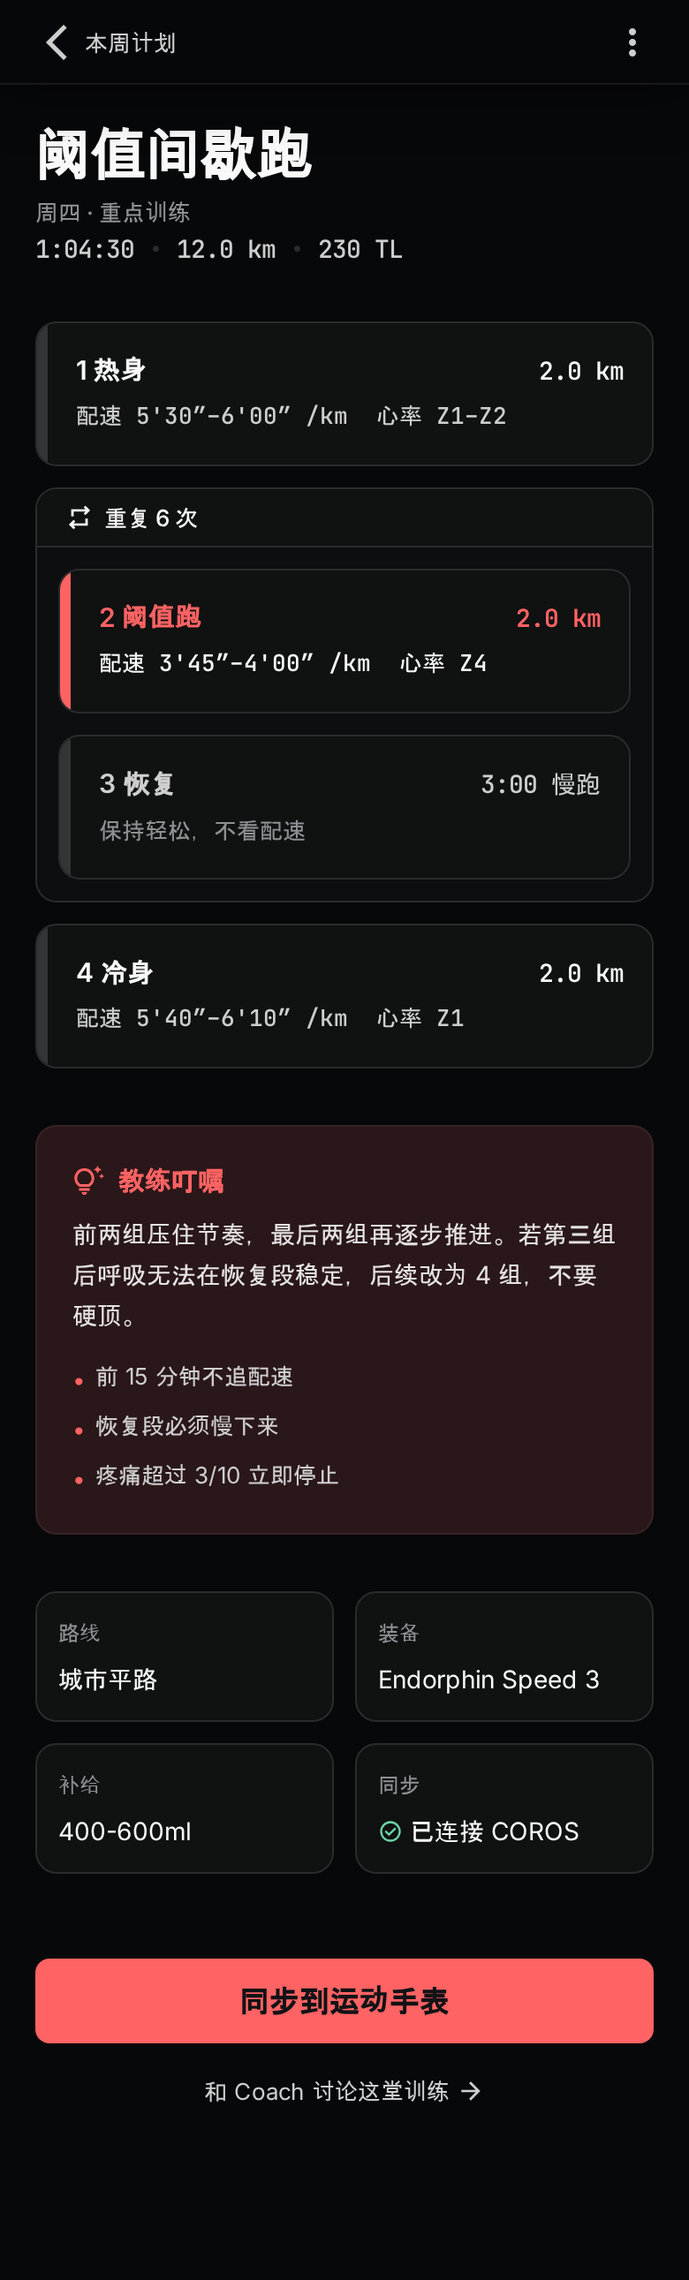
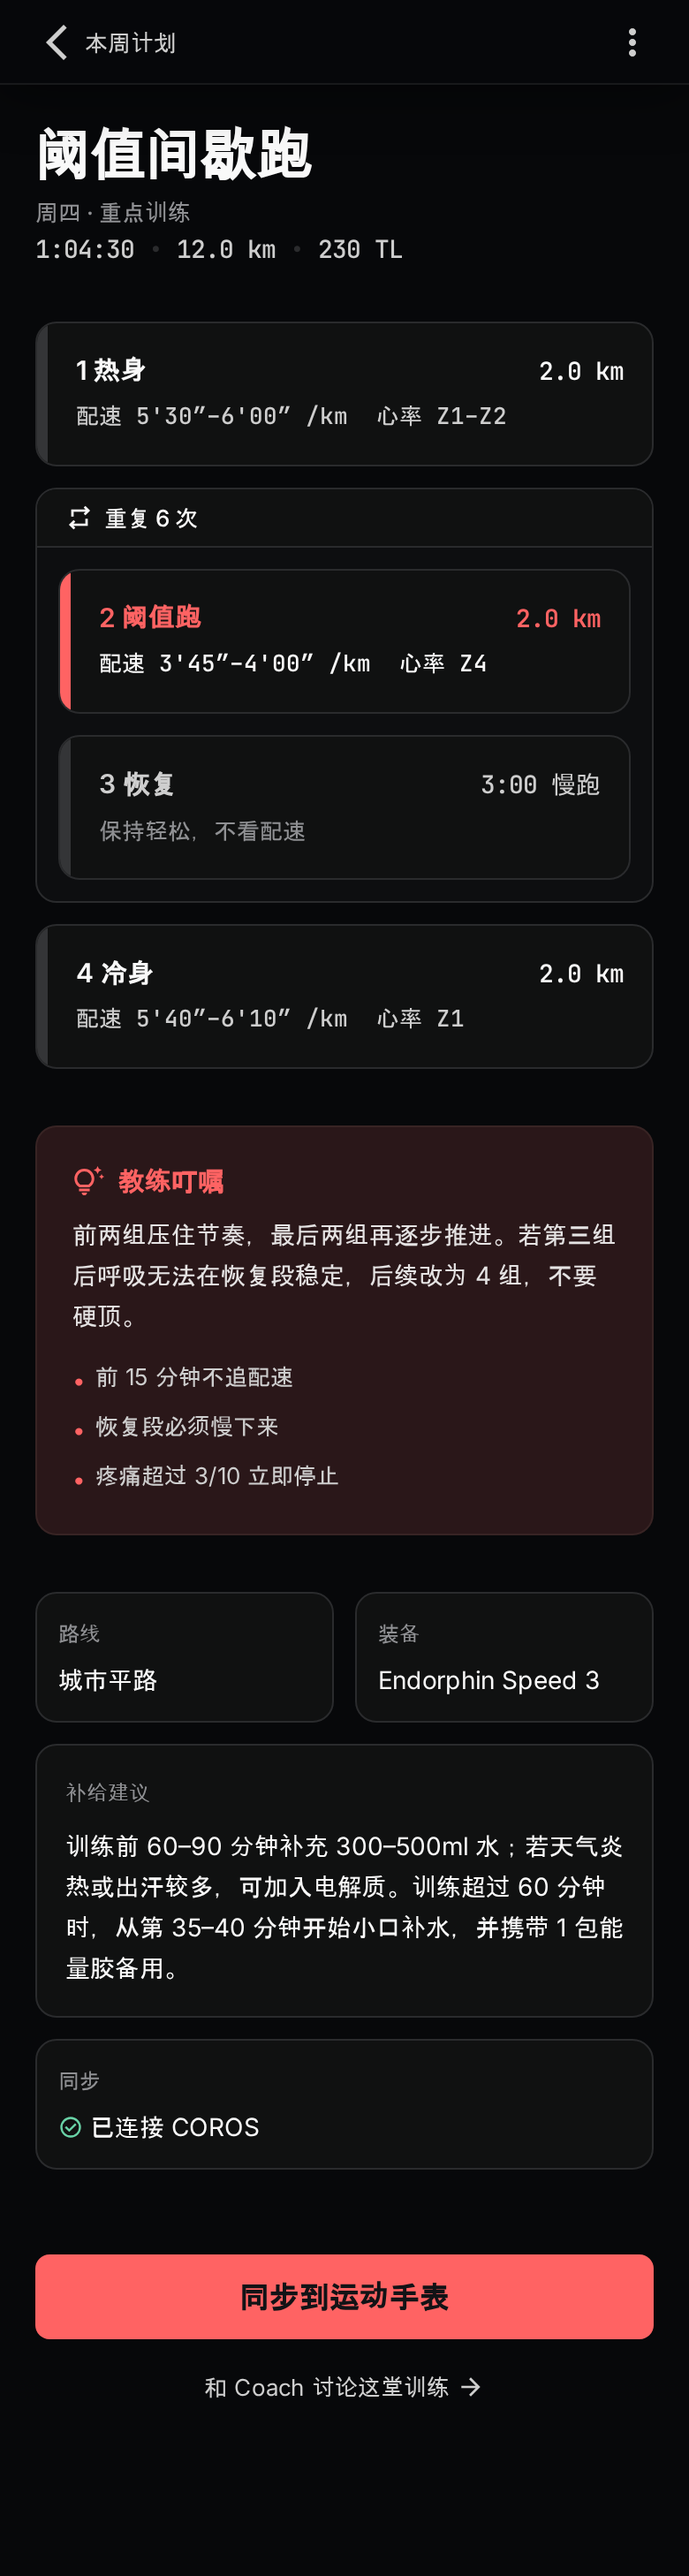
design: expand workout fueling guidance

diff --git a/.stitch/designs/workout-detail.html b/.stitch/designs/workout-detail.html
@@ -247,11 +247,12 @@
 <span class="font-label-metadata text-[12px] text-ink-muted">装备</span>
 <span class="font-body-main text-[14px] text-ink-primary">Endorphin Speed 3</span>
 </div>
-<div class="bg-surface rounded-xl p-3 border border-divider flex flex-col gap-1">
-<span class="font-label-metadata text-[12px] text-ink-muted">补给</span>
-<span class="font-body-main text-[14px] text-ink-primary">400-600ml</span>
-</div>
-<div class="bg-surface rounded-xl p-3 border border-divider flex flex-col gap-1">
+<div class="col-span-2 bg-surface rounded-xl p-4 border border-divider flex flex-col gap-2">
+<span class="font-label-metadata text-[12px] text-ink-muted">补给建议</span>
+<p class="font-body-main text-[14px] leading-relaxed text-ink-primary">
+训练前 60–90 分钟补充 300–500ml 水；若天气炎热或出汗较多，可加入电解质。训练超过 60 分钟时，从第 35–40 分钟开始小口补水，并携带 1 包能量胶备用。
+</p>
+</div><div class="bg-surface rounded-xl p-3 border border-divider flex flex-col gap-1 col-span-2">
 <span class="font-label-metadata text-[12px] text-ink-muted">同步</span>
 <span class="font-body-main text-[14px] text-ink-primary flex items-center gap-1">
 <span class="material-symbols-outlined text-[14px] text-success-mint" data-icon="check_circle">check_circle</span>
